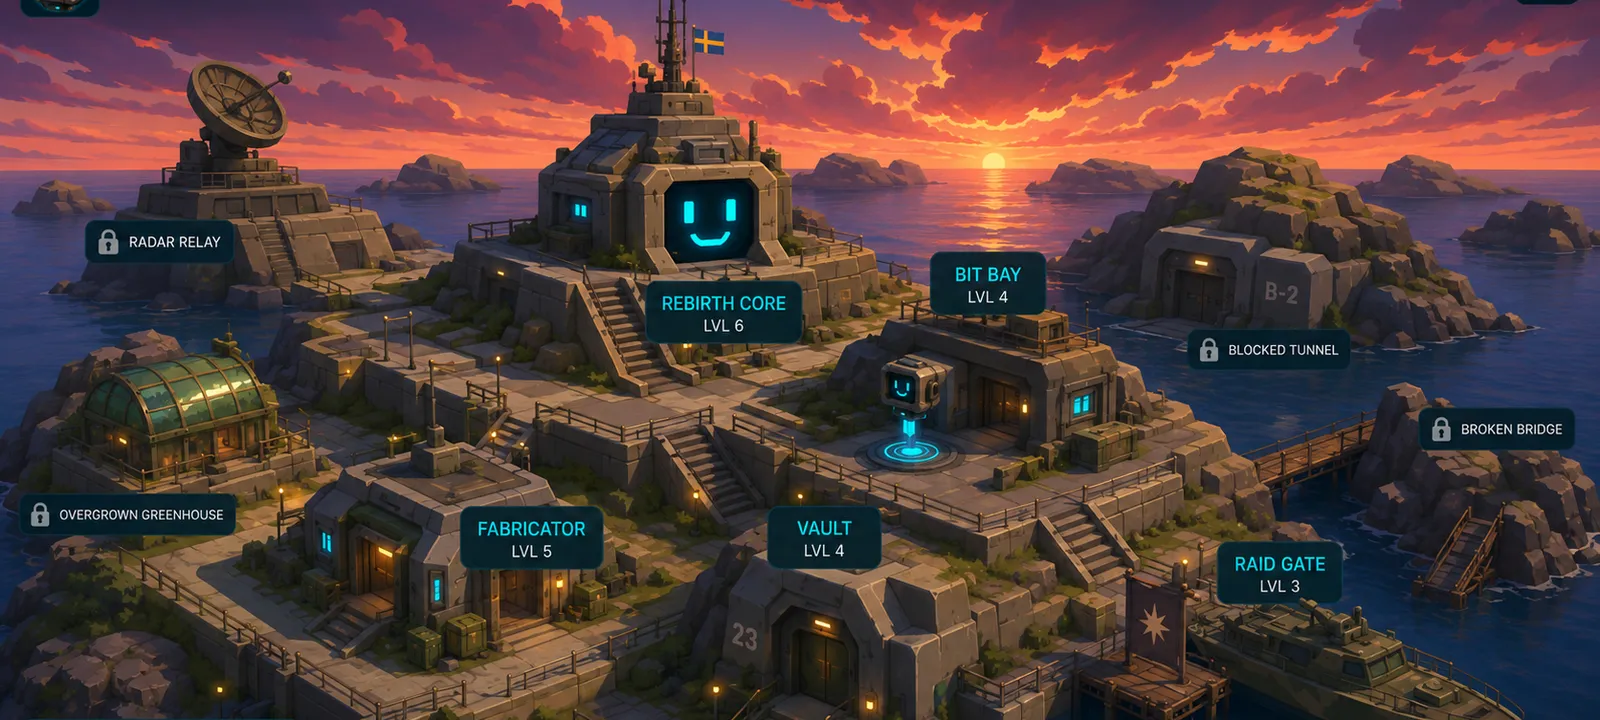
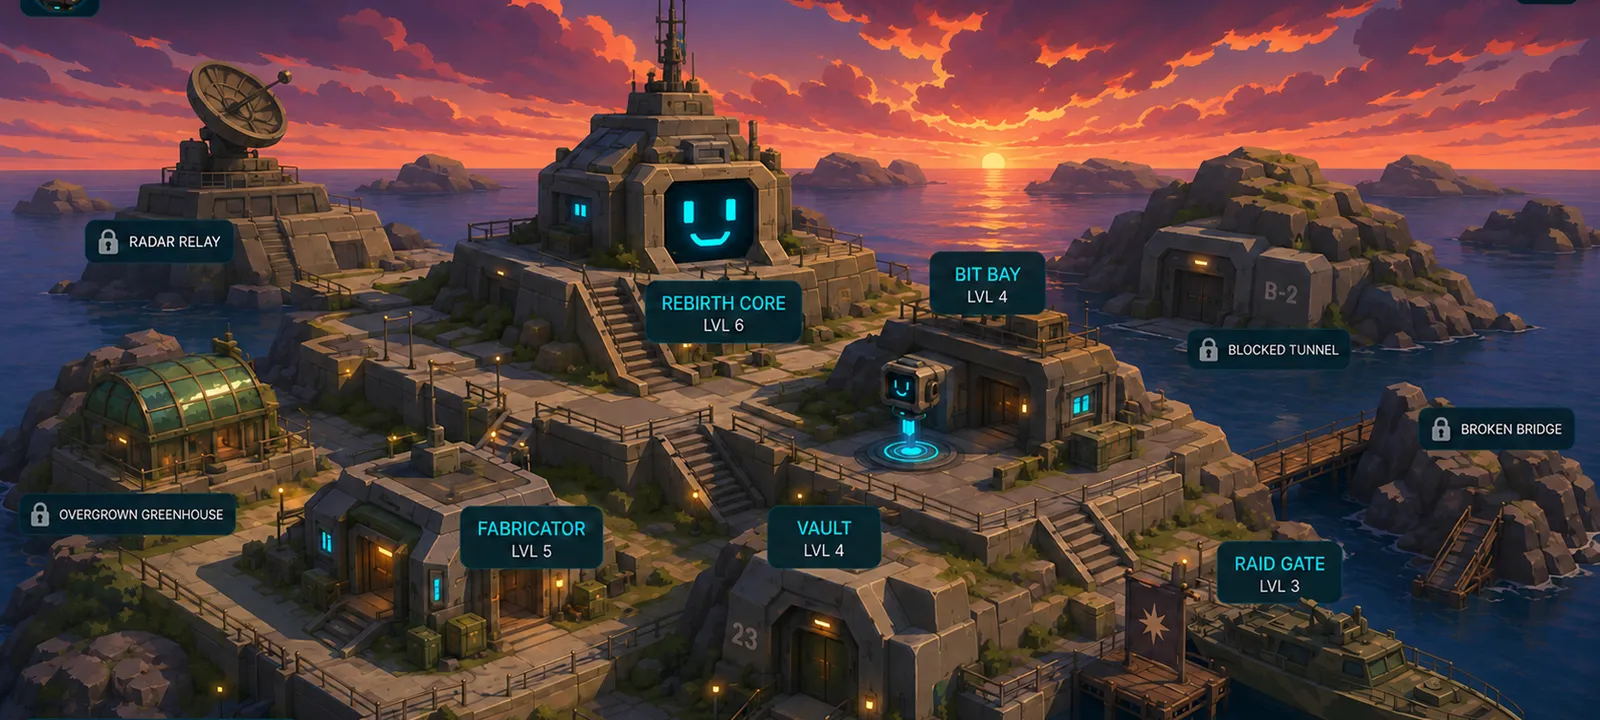
v0.5.1 art pass 2: every screen has an environment — vendor stall, vault stash, raid tunnel (feed+decision), sunrise end screen, before/after art for Core/Fabricator/Vault, flag-free base render (patch removed)

diff --git a/index.html b/index.html
@@ -212,8 +212,20 @@
     linear-gradient(90deg, rgba(7,21,28,.97) 0%, rgba(7,21,28,.9) 34%, rgba(7,21,28,.62) 62%, rgba(7,21,28,.4) 100%),
     url("assets/production/hero_preraid.webp") right center/cover no-repeat;}
   #app.s-decision{background:
-    linear-gradient(rgba(7,21,28,.78), rgba(7,21,28,.93)),
-    url("assets/production/env_route_map.webp") center 30%/cover no-repeat;}
+    linear-gradient(rgba(7,21,28,.55), rgba(7,21,28,.88)),
+    url("assets/production/env_tunnel.webp") center/cover no-repeat;}
+  #app.s-raidsim{background:
+    linear-gradient(rgba(7,21,28,.5), rgba(7,21,28,.86)),
+    url("assets/production/env_tunnel.webp") center/cover no-repeat;}
+  #app.s-vendor{background:
+    linear-gradient(90deg, rgba(7,21,28,.97) 0%, rgba(7,21,28,.86) 42%, rgba(7,21,28,.4) 75%, rgba(7,21,28,.25) 100%),
+    url("assets/production/env_vendor.webp") right center/cover no-repeat;}
+  #app.s-stash, #app.s-itemDetail{background:
+    linear-gradient(90deg, rgba(7,21,28,.96) 0%, rgba(7,21,28,.84) 45%, rgba(7,21,28,.45) 100%),
+    url("assets/production/env_stash.webp") right center/cover no-repeat;}
+  #app.s-end{background:
+    linear-gradient(rgba(7,21,28,.5), rgba(7,21,28,.82)),
+    url("assets/production/env_end.webp") center/cover no-repeat;}
   #app.s-result.res-ok{background:
     linear-gradient(90deg, var(--bg) 55%, rgba(7,21,28,.55) 78%, rgba(7,21,28,.25)),
     url("assets/production/strip_success.webp") right center/auto 100% no-repeat;}

diff --git a/data/modules.js b/data/modules.js
@@ -13,6 +13,7 @@ window.DATA.modules = [
         benefitText:"Facility powered — Fabricator, BIT Bay and Vault sections revealed.",
         preview:{ before:"A dead reactor ring. Severed cables. The whole facility is dark around it.",
                   after:["Lights and machinery come on across the facility","Fabricator, BIT Bay and Vault become repairable","The rebuild can begin"] },
+        artBefore:"assets/production/core_dim.webp",
         newGoal:"Bring the Fabricator online — find 1× Cable and 1× Fuse." },
       { level:2,
         cost:{ salvage:60, items:{ power_relay:1, circuit_board:2, ai_fragment:1 } },
@@ -21,6 +22,8 @@ window.DATA.modules = [
         benefitText:"New raid zone: Transit Hub. Higher module caps (BIT Bay L2, Fabricator L2).",
         preview:{ before:"The core runs at minimum output. Half the facility is still without power.",
                   after:["Power reaches a new bunker sector","Transit Hub raid zone unlocks","BIT Bay and Fabricator can reach L2"] },
+        artBefore:"assets/production/core_dim.webp",
+        artAfter:"assets/production/core_powered.webp",
         artAdd:"grid",
         newGoal:"A new zone is open. The good electronics are there." }
     ]
@@ -37,6 +40,8 @@ window.DATA.modules = [
         benefitText:"Craft medkits and ammo. Recycle junk into Scrap. Cheaper recovery after a death.",
         preview:{ before:"Broken assembly arms over a dead printer bed. No control panel.",
                   after:["Craft medkits and ammo packs","Recycle common junk into Scrap","Rebuild lost gear without the vendor markup"] },
+        artBefore:"assets/production/fab_broken.webp",
+        artAfter:"assets/production/fab_online.webp",
         newGoal:"Repair BIT — find 1× Optical Sensor. Industrial Zone, statistically." },
       { level:2,
         cost:{ salvage:50, items:{ circuit_board:2, hydraulic_component:1 } },
@@ -87,6 +92,8 @@ window.DATA.modules = [
         benefitText:"+8 stash slots. One secure slot: that item survives your death.",
         preview:{ before:"A vault door hanging off its hinges. Containers looted and scattered.",
                   after:["Vault door seals","+8 stash slots","Secure slot: one chosen item survives death"] },
+        artBefore:"assets/production/vault_broken.webp",
+        artAfter:"assets/production/vault_sealed.webp",
         artAdd:"vault",
         newGoal:"Pick a secure item before your next raid. Choose like it matters." }
     ]
@@ -104,8 +111,7 @@ window.DATA.moduleArt = { rebirth_core:"core", fabricator:"fab", bit_bay:"bit", 
 // Illustrated base map: env layer + percent-positioned hotspots (responsive).
 // Coordinates are % of the cropped env_base.webp (1600x720).
 window.DATA.baseMap = {
-  env: "assets/production/env_base.webp",
-  flagPatch: { x:44.7, y:6.0 },   // covers the baked-in flag with a BIT banner (no national symbols)
+  env: "assets/production/env_base.webp",   // re-rendered without national symbols
   hotspots: {
     rebirth_core: { x:45,  y:43.5 },
     bit_bay:      { x:62,  y:39 },

diff --git a/test/ui.test.js b/test/ui.test.js
@@ -24,7 +24,7 @@ assert(doc.querySelector(".basewrap") && doc.querySelector(".baseenv"), "illustr
 const hs0 = doc.querySelector(".room.hs");
 assert(hs0 && hs0.style.left.includes("%") && hs0.style.top.includes("%"), "hotspots use percent positioning");
 assert(doc.querySelectorAll(".lockchip").length >= 4, "locked future areas visible");
-assert(doc.querySelector(".flagpatch"), "flag patch covers baked-in flag");
+assert(!doc.querySelector(".flagpatch"), "no flag patch needed — env re-rendered without flag");
 assert(doc.querySelector(".basewrap").className.includes("basedark"), "base starts dark");
 assert(text().includes("Power Cell 1/1"), "requirement chips");
 assert(doc.querySelector(".roombar"), "room progress bars");
@@ -76,6 +76,11 @@ assert(text().includes("NEXT UPGRADE") || text().includes("READY TO BUILD"), "on
 A.backToBase();
 
 // one-more-raid CTA + mid-raid decision (deterministic rng)
+// dump any randomly-looted storage parts first so the tracked goal can't complete early
+A.go("stash");
+for(const pid of ["polymer_plate","servo"]){
+  while((JSON.parse(window.localStorage.getItem("pr_meta_save")).stash[pid]||0) > 0) A.sell(pid);
+}
 A.oneMoreRaid("storage", 1);
 assert(text().includes("Raid Prep"), "one-more-raid goes to prep");
 window.eval("window.__origRnd = Math.random; Math.random = function(){ return 0.01; };");

diff --git a/app.js b/app.js
@@ -583,8 +583,7 @@ SCREENS.base = function(){
 
   const BM = D.baseMap;
   html += '<div class="basewrap' + (session.wake ? ' wake' : '') + (S.lightsOn ? '' : ' basedark') + '">' +
-    '<div class="baseenv"></div>' +
-    '<div class="flagpatch" style="left:' + BM.flagPatch.x + '%;top:' + BM.flagPatch.y + '%">ᵕ‿ᵕ</div>';
+    '<div class="baseenv"></div>';
   for(const m of D.modules) html += roomHtml(m.id);
   for(const L of BM.locked)
     html += '<div class="lockchip" style="left:' + L.x + '%;top:' + L.y + '%">🔒 ' + esc(L.label) + '</div>';